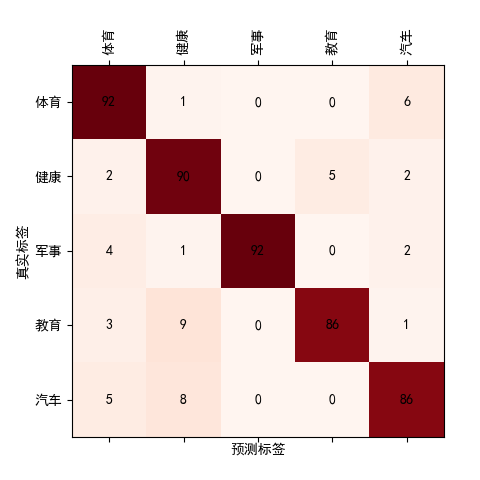
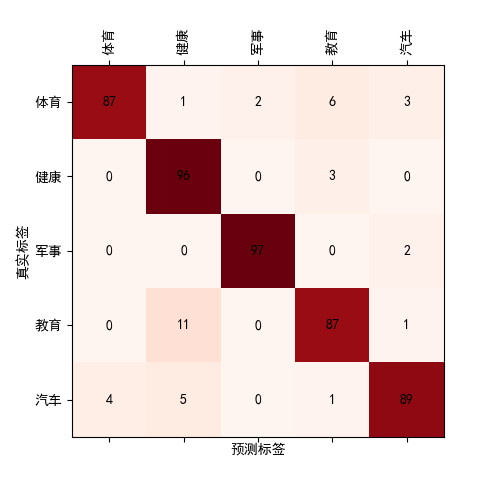
update README.md

diff --git a/params.py b/params.py
@@ -21,7 +21,7 @@ START_NO = UNK_NO + 1
 SENT_LENGTH = 200
 
 # 模型参数
-EMBEDDING_SIZE = 128
+EMBEDDING_SIZE = 256
 TRAIN_BATCH_SIZE = 32
 TEST_BATCH_SIZE = 16
 LEARNING_RATE = 0.001

diff --git a/README.md b/README.md
@@ -54,4 +54,27 @@ weighted avg     0.9051    0.9010    0.9018       495
 
 > 预测标签：健康
 
+### 参数影响
 
+我们考察模型参数对模型在验证集上的表现的影响。
+
+- 考察句子长度对模型表现的影响
+
+保持其它参数不变，设置文本长度（SENT_LENGTH）分别为200，256，300，结果如下：
+
+| 文本长度 |  accuracy|precision|recall|f1-score|
+|--|--|---|---|---|
+|200|0.9010|0.9051|0.9010|0.9018|
+|256|0.8990|0.9019|0.8990|0.8977|
+|300|0.8788|0.8824|0.8788|0.8774|
+
+- 考察词向量维度对模型表现的影响
+
+设置文本长度（SENT_LENGTH）为200，保持其它参数不变，设置词向量维度为32, 64， 128，结果如下：
+
+| 词向量维度|  accuracy|precision|recall|f1-score|
+|--|--|---|---|---|
+|32|0.6869|0.7402|0.6869|0.6738|
+|64|0.7576|0.7629|0.7576|0.7518|
+|128|0.9010|0.9051|0.9010|0.9018|
+|256|0.9212|0.9238|0.9212|0.9213|
